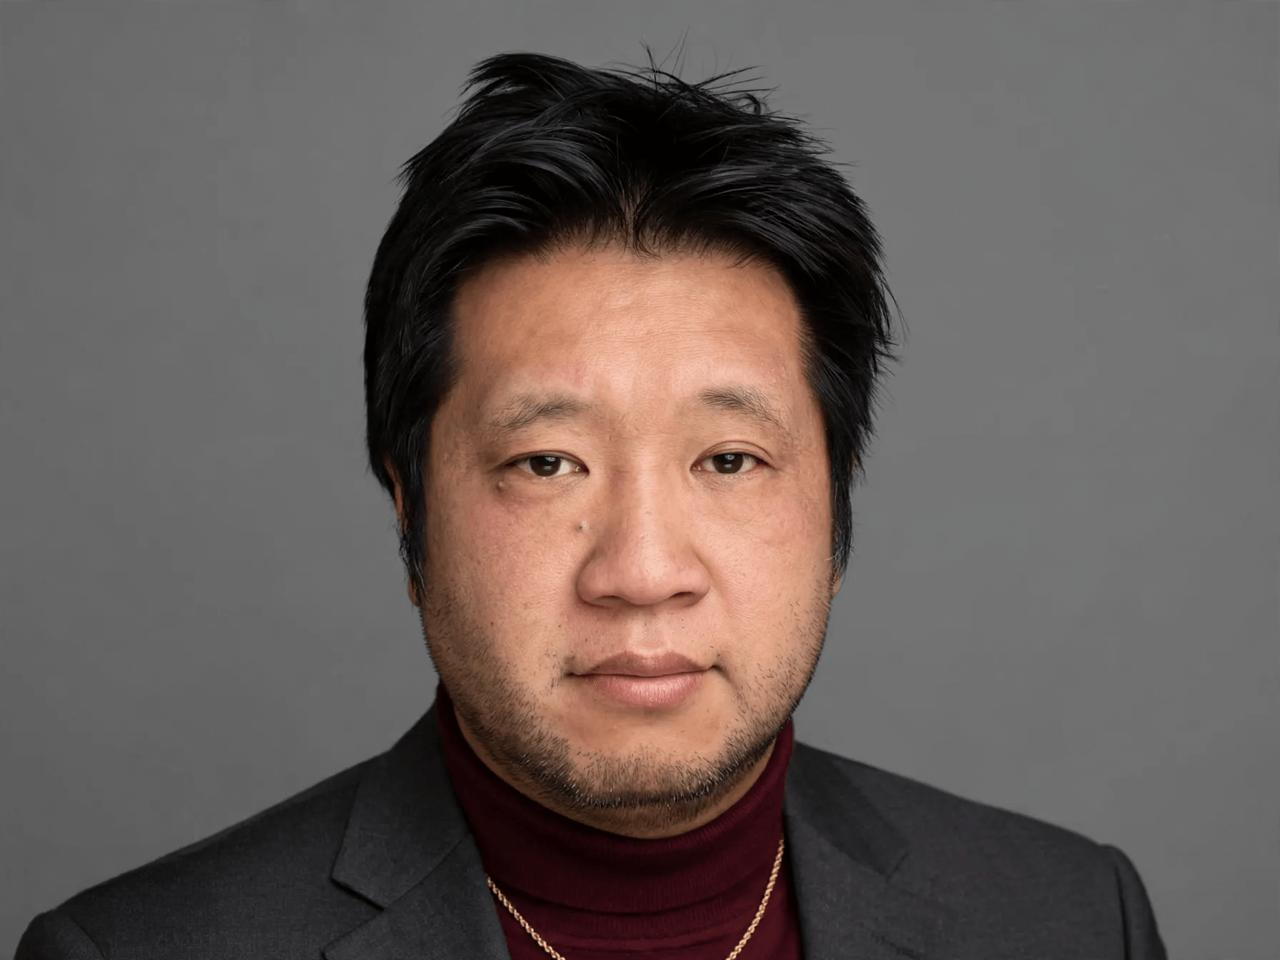
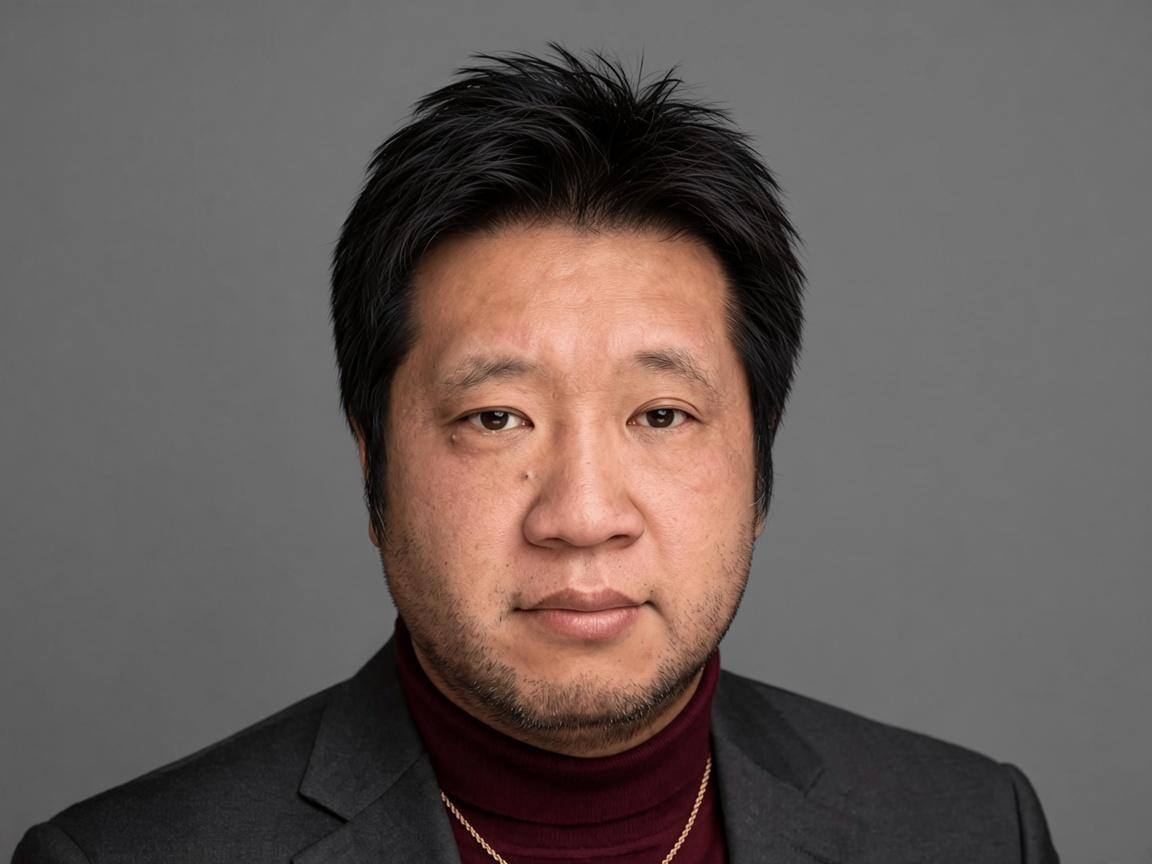
Update headshot (tidier hair); cache-bust image refs

diff --git a/docs/index.html b/docs/index.html
@@ -206,7 +206,7 @@
       </div>
     </div></section>
     <section class="section about" id="about"><div class="container"><div class="about-inner">
-      <div class="about-photo"><img src="headshot.jpg" alt="Jeff Cheung"></div>
+      <div class="about-photo"><img src="headshot.jpg?v=2" alt="Jeff Cheung"></div>
       <div class="about-text">
         <h2>I'm Jeff Cheung.</h2>
         <p>CTO turned AI Consultant. I've spent 20+ years building platforms, CRMs, and tracking systems for clients across fintech, real estate, and marketing — including a digital agency I still run today.</p>

diff --git a/docs/bfcm.html b/docs/bfcm.html
@@ -303,7 +303,7 @@
 
     <section class="block"><div class="container">
       <div class="about">
-        <img src="headshot.jpg" alt="Jeff Cheung" width="120" height="120">
+        <img src="headshot.jpg?v=2" alt="Jeff Cheung" width="120" height="120">
         <div>
           <h3>I'm Jeff.</h3>
           <p>I run 802 Marketing in Vermont. I build server-side tracking, checkout QA and automation for ecommerce brands. You deal with me directly, from the scan to the fix.</p>
